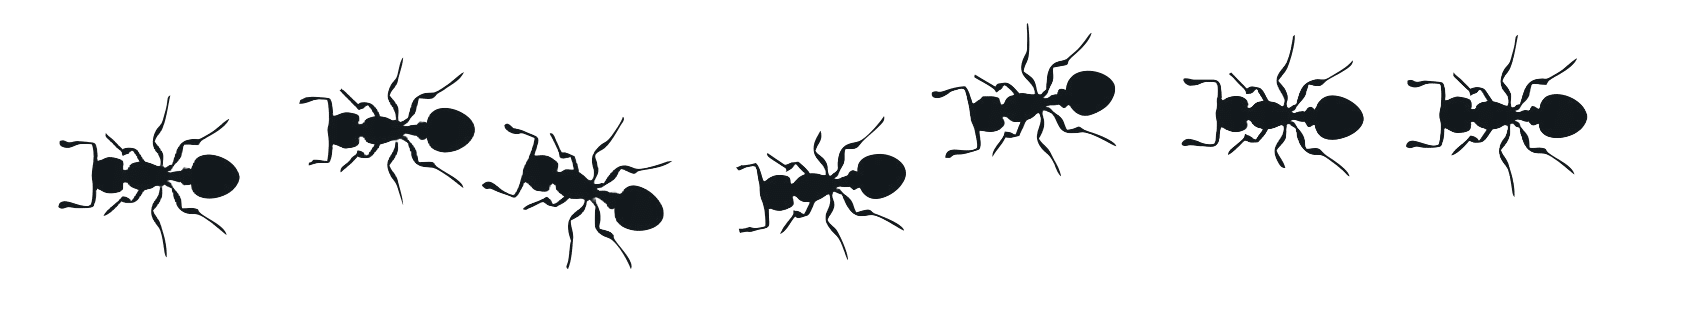
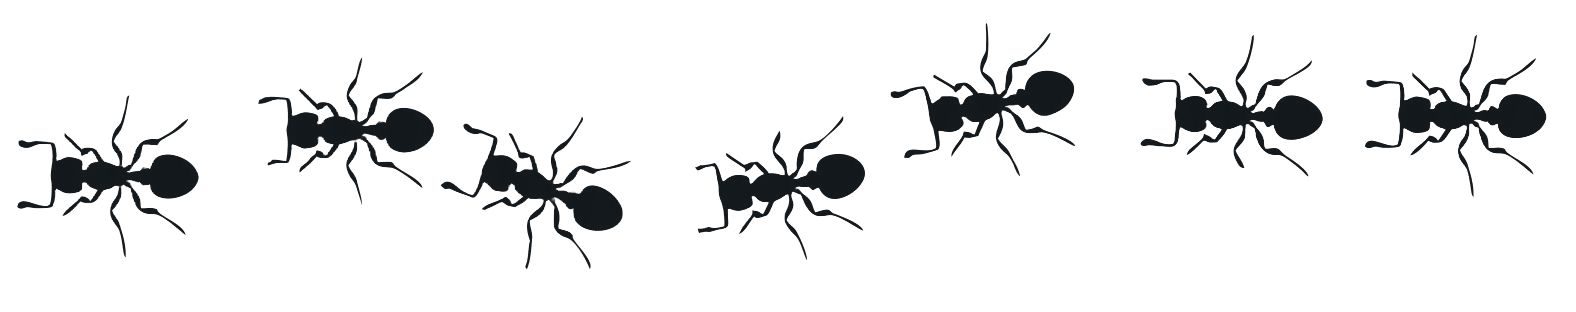
mravce

Changed region(s): [[0.4353, 0.1154, 0.9949, 0.8077], [0.0, 0.2019, 0.4042, 0.8654], [0.9638, 0.2019, 0.9949, 0.2308]]

diff --git a/src/style.css b/src/style.css
@@ -338,19 +338,30 @@ body {
 
 .footer-image {
   margin-bottom: 0.5rem;
+  display: flex;
+  justify-content: center;
+  align-items: center;
+  width: 100%;
+  max-width: none;
+  flex-wrap: nowrap;
+  gap: 0;
+  overflow: visible;
 }
 
 .footer-logo {
-  height: 60px;
+  height: 50px;
   width: auto;
   object-fit: contain;
   filter: brightness(0) invert(1);
   transition: all 0.3s ease;
+  flex-shrink: 0;
+  opacity: 0.8;
 }
 
 .footer-logo:hover {
-  transform: scale(1.05);
+  transform: scale(1.1);
   filter: brightness(0) invert(1) drop-shadow(0 2px 10px rgba(255,255,255,0.3));
+  opacity: 1;
 }
 
 .copyright {
@@ -1269,7 +1280,14 @@ body {
   }
   
   .footer-logo {
-    height: 50px;
+    height: 40px;
+  }
+  
+  .footer-image {
+    max-width: none;
+    gap: 0;
+    justify-content: center;
+    flex-wrap: nowrap;
   }
   
   .copyright {
@@ -1344,7 +1362,12 @@ body {
   }
   
   .footer-logo {
-    height: 45px;
+    height: 35px;
+  }
+  
+  .footer-image {
+    gap: 0;
+    flex-wrap: nowrap;
   }
   
   .copyright {

diff --git a/src/App.vue b/src/App.vue
@@ -138,6 +138,13 @@
           <div class="footer-info">
             <div class="footer-image">
               <img src="/assets/shared/mravce.png" alt="Mravce Logo" class="footer-logo">
+              <img src="/assets/shared/mravce.png" alt="Mravce Logo" class="footer-logo">
+              <img src="/assets/shared/mravce.png" alt="Mravce Logo" class="footer-logo">
+              <img src="/assets/shared/mravce.png" alt="Mravce Logo" class="footer-logo">
+              <img src="/assets/shared/mravce.png" alt="Mravce Logo" class="footer-logo">
+              <img src="/assets/shared/mravce.png" alt="Mravce Logo" class="footer-logo">
+              <img src="/assets/shared/mravce.png" alt="Mravce Logo" class="footer-logo">
+              <img src="/assets/shared/mravce.png" alt="Mravce Logo" class="footer-logo">
             </div>
             <div class="copyright">
               Vytvorené v spolupráci s <a href="https://new.ceaeurope.sk/" target="_blank" rel="noopener" class="support-link">ceaeurope.sk</a>
